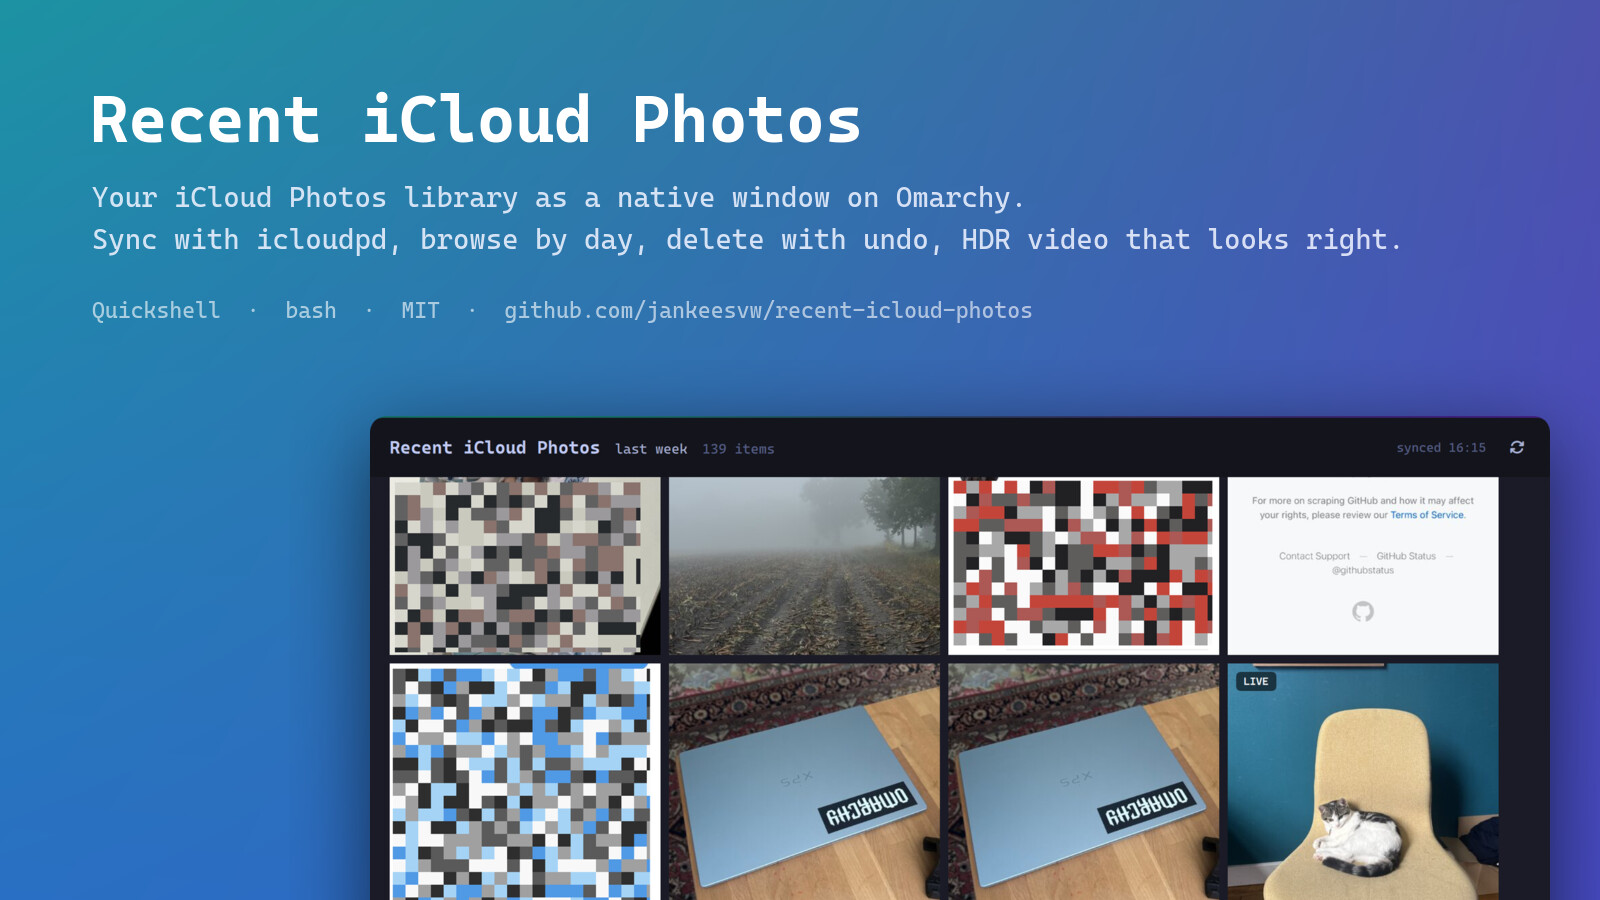
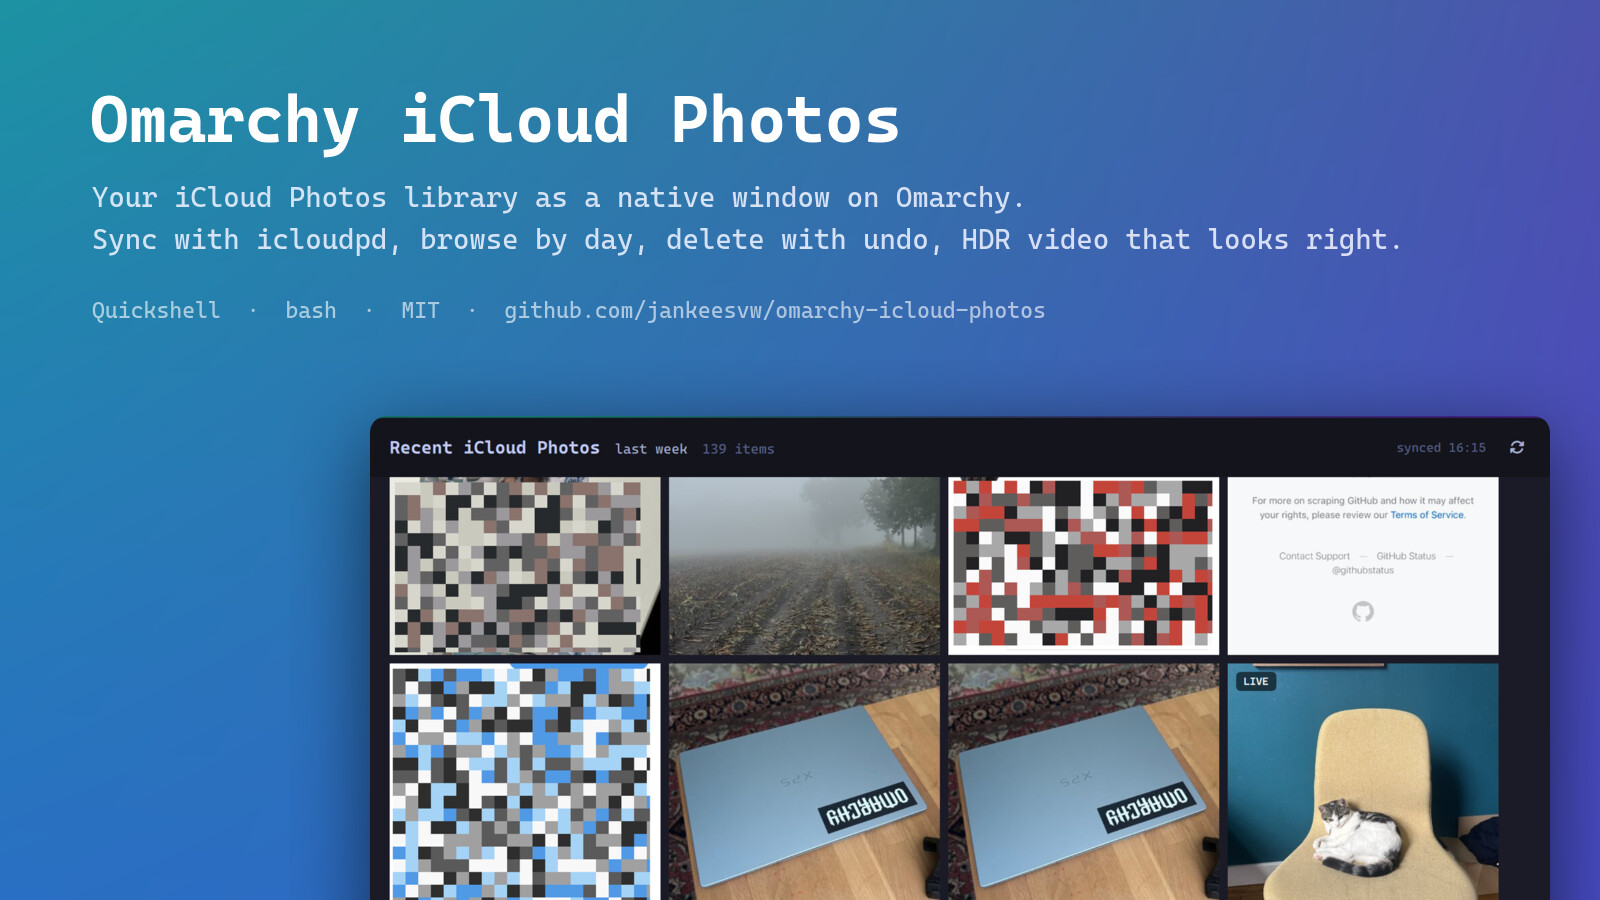
Rename to Omarchy iCloud Photos, describe the backend

Changed region(s): [[0.0625, 0.0933, 0.5625, 0.1867], [0.4688, 0.3422, 0.6562, 0.3733]]

diff --git a/ui/shell.qml b/ui/shell.qml
@@ -570,7 +570,7 @@ ShellRoot {
   FloatingWindow {
     id: win
     visible: true
-    title: "Recent iCloud Photos"
+    title: "Omarchy iCloud Photos"
     implicitWidth: 1180
     implicitHeight: 800
     color: appTheme.background
@@ -652,7 +652,7 @@ ShellRoot {
           anchors.verticalCenter: parent.verticalCenter
           spacing: 14
           Text {
-            text: "Recent iCloud Photos"
+            text: "Omarchy iCloud Photos"
             color: appTheme.brightForeground
             font.family: appTheme.fontFamily
             font.pixelSize: 17

diff --git a/README.md b/README.md
@@ -2,7 +2,7 @@
   <img src="assets/icon.png" width="96" height="96" alt="">
 </p>
 
-<h1 align="center">Recent iCloud Photos</h1>
+<h1 align="center">Omarchy iCloud Photos</h1>
 
 <p align="center">The last weeks of your iCloud Photos library as a native window on Omarchy.<br>Browse by day, watch your videos, delete with undo, copy and save. No browser, no Apple hardware.</p>
 
@@ -17,6 +17,18 @@
 ## Why
 
 Apple does not make an iCloud Photos client for Linux, and the web app is a browser tab that forgets you every few days. This is the other way round: a small sync script keeps a local copy of your most recent photos and videos, and a Quickshell window shows them the way the Photos app does, newest at the bottom, in whatever Omarchy theme you are running. Everything is a keystroke away and nothing needs a mouse.
+
+## Built on
+
+The window is the only new thing here; the plumbing is existing, well-worn tools.
+
+- **[icloudpd](https://github.com/icloud-photos-downloader/icloud_photos_downloader)** does the downloading. It speaks the same private web API as icloud.com, keeps a session in `~/.config/icloudpd` and is used strictly in copy mode.
+- **pyicloud**, the module that ships inside icloudpd, handles sign-in with two-factor and the per-asset delete and restore, from a small Python helper in the repository's own virtualenv.
+- **bash and jq** build the index: one JSON file listing every item in the range with its thumbnail, preview, video and capture time.
+- **ImageMagick** with libheif makes the thumbnails and the JPEG previews of HEIC originals, which Qt cannot decode.
+- **ffmpeg** grabs video poster frames and tone-maps HDR videos (HLG and PQ) to SDR H.264 copies for playback, since Qt's player does no tone mapping.
+- **Quickshell** on Qt 6 renders the window in QML, with QtMultimedia for video and the Omarchy theme read live from `colors.toml`.
+- **systemd** user units run the sync every 30 minutes at low priority.
 
 ## What it does
 
@@ -37,11 +49,11 @@ It talks to iCloud through the same unofficial web API icloudpd uses. Apple can 
 
 ```bash
 yay -S quickshell imagemagick ffmpeg jq wl-clipboard icloudpd-bin
-git clone git@github.com:jankeesvw/recent-icloud-photos.git ~/Documents/github.com/jankeesvw/recent-icloud-photos
-~/Documents/github.com/jankeesvw/recent-icloud-photos/install.sh
+git clone git@github.com:jankeesvw/omarchy-icloud-photos.git ~/Documents/github.com/jankeesvw/omarchy-icloud-photos
+~/Documents/github.com/jankeesvw/omarchy-icloud-photos/install.sh
 ```
 
-The installer links the launcher and the sync script into `~/.local/bin`, adds "Recent iCloud Photos" to the app launcher, creates a small Python virtualenv for the iCloud helper and enables the sync timer. Start the app and sign in. The first sync takes a few minutes; HDR videos take the longest because each one gets a tone-mapped copy for playback.
+The installer links the launcher and the sync script into `~/.local/bin`, adds "Omarchy iCloud Photos" to the app launcher, creates a small Python virtualenv for the iCloud helper and enables the sync timer. Start the app and sign in. The first sync takes a few minutes; HDR videos take the longest because each one gets a tone-mapped copy for playback.
 
 ## Keys
 
